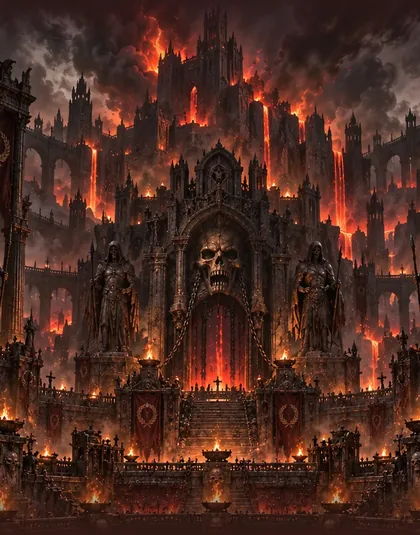
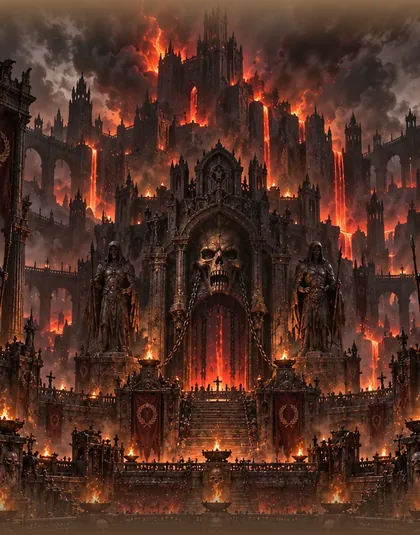
arena 2: Arena 1 byte for byte except the backdrop painting (Dom 10-06): drop the retuned light, lift and lava abyss; painting edges fade to Arena 1's colours

Changed region(s): [[0.0, 0.9271, 1.0, 1.0], [0.0, 0.0, 1.0, 0.0897]]

diff --git a/src/arena-themes.ts b/src/arena-themes.ts
@@ -46,7 +46,6 @@ export type ArenaTheme = {
   backdropTall?: number;   // the ring's height factor: <1 shrinks the painting vertically
   spectators?: boolean;   // false: no crowd
   abyss?: { map: string; haze: RGB; cream: RGB };   // the aerial map far below a cliff arena (public/<map>, scripts/arena-abyss.py), the haze its rim fades into, and the colour the horizon bowl starts from; unset = Arena 1's sky-blue abyss
-  backdropLift?: number;   // multiplies the painting's colour (1 = as painted): lifts a dark painting into the arena's light
   backdrop?: string;   // a painted far world (sky, cliffs, temples) on a ring behind the wall, in place of the ash ridges
 };
 export type ArenaKey = '1' | '2' | 'a' | 'b' | 'c' | 'd';
@@ -64,12 +63,9 @@ const ARENA_1: ArenaTheme = {
   dyes: ['#453538', '#30353d', '#514033', '#535451', '#3e4837', '#62503a'], crowd: 1, fill: 1,
   motes: '#f2c58a', plain: '#4a463f', gateLight: 0.55, drape: false,
 };
-// Arena 2, the Skull Gate (Dom 2026-10-06, his own painting): Arena 1's template exactly (the island, its sand and floor, cliff, cone, torches, banners, camera, and its
-// daylight: sun, sky, fog, haze, exposure, weather) with only the far world swapped: the red-lava painting (lifted into daylight) and its lava abyss. Reached by ?arena=2; not on the ladder yet.
-const ARENA_2: ArenaTheme = {
-  ...ARENA_1, id: '2', name: 'The Skull Gate',
-  backdrop: '/arena/backdrop-2.webp', backdropLift: 1.5, abyss: { map: 'arena/abyss-2.webp', haze: [62, 30, 26], cream: [84, 36, 26] },
-};
+// Arena 2, the Skull Gate (Dom 2026-10-06, his own painting): Arena 1 byte for byte (light, sky, fog, abyss, island, props) with only the painted far world swapped.
+// Reached by ?arena=2; not on the ladder yet. Every later arena follows the same rule: one backdrop URL.
+const ARENA_2: ArenaTheme = { ...ARENA_1, id: '2', name: 'The Skull Gate', backdrop: '/arena/backdrop-2.webp' };
 // Arenas 2 and 3, round two (owner 2026-09-24 via Lead: 3B rejected, 2A "only a floor and a warm tint on the same walls"). Four
 // labelled options, each unlike Arena 1 on at least two of light / floor / weather / setting; the owner picks two for ARENA_PICK.
 const BRICK: WallStyle = { courses: 14, blocks: [6, 9], mortar: 0.62, hues: [[1.08, 0.94, 0.88], [1, 0.9, 0.84], [1.12, 0.98, 0.9], [0.94, 0.86, 0.82], [1.04, 0.96, 0.9], [0.9, 0.84, 0.8]] };

diff --git a/src/arena.ts b/src/arena.ts
@@ -469,7 +469,6 @@ export function buildArena(scene: THREE.Scene, theme: ArenaTheme = ARENA_THEMES[
     map.generateMipmaps = false; map.minFilter = THREE.LinearFilter;   // 0.9 MB without mips: the arena's texture budget is 12 MB
     // Shown as painted (no tone mapping): its edges are painted the haze as it lands on screen.
     const paint = new THREE.MeshBasicMaterial({ name: 'backdrop', map, transparent: true, fog: false, toneMapped: false, depthWrite: false, side: THREE.BackSide });
-    if (theme.backdropLift) paint.color.setScalar(theme.backdropLift);
     materials.push(paint); paint.addEventListener('dispose', () => map.dispose());
     // backdropScale: the ring scaled about the centre keeps its angular size but sits closer, so no ground shows between crowd and painting.
     const ring = mesh(new THREE.CylinderGeometry(40, 40, 40, 64, 1, true), paint, 'backdrop', false); const near = theme.backdropScale ?? 1; ring.scale.set(near, near * (theme.backdropTall ?? 1), near); ring.position.y = (17 - (theme.backdropDrop ?? 0)) * near; ring.rotation.y = theme.backdropTurn ?? 0.3; ring.receiveShadow = false;   // 40 m out: close enough that its foot sits below the line of sight over the top step (no gap to the stands); sky up to ~37°

diff --git a/scripts/arena-backdrop-2.py b/scripts/arena-backdrop-2.py
@@ -1,14 +1,14 @@
 """Arena 2's painted far world: Dom's own painting (2026-10-06, 'the skull gate'), cropped to the band above his drawn arena floor and graded
-into the strip format of public/arena/backdrop-1.webp (420 x 535, mirrored round the ring by arena.ts). The head fades into the arena's sky
-(SKY_TOP), the foot into its haze (FOOT), as backdrop-1's edges are painted, so the dome and the abyss meet the picture without a seam.
+into the strip format of public/arena/backdrop-1.webp (420 x 535, mirrored round the ring by arena.ts). The head fades into Arena 1's sky
+(SKY_TOP), the foot into its foot colour (FOOT), as backdrop-1's edges are painted, so the dome and the abyss meet the picture without a seam.
 Usage: python3 scripts/arena-backdrop-2.py dom-arena2-backdrop-portrait.webp public/arena/backdrop-2.webp"""
 import sys
 import numpy as np
 from PIL import Image
 
 SRC, OUT = sys.argv[1], sys.argv[2]
-SKY_TOP = np.array([44, 24, 24], np.float32)    # keep equal to the arena 2 sky colour at the painting's head (arena-themes.ts)
-FOOT = np.array([52, 26, 20], np.float32)       # and to the haze the abyss bowl starts from
+SKY_TOP = np.array([154, 116, 81], np.float32)  # Arena 1's sky colour at the head of backdrop-1.webp (Arena 2 wears Arena 1's light)
+FOOT = np.array([90, 64, 46], np.float32)       # and the mean of backdrop-1's foot row
 im = Image.open(SRC).convert('RGB'); w, h = im.size
 # Portrait source: castle and sky above the skull gate, stands and statues, then the front wall at y ~0.47-0.57 h and his floor below. Keep above the wall's grates.
 x0, x1, y1 = int(w * 0.13), int(w * 0.87), int(h * 0.52)
